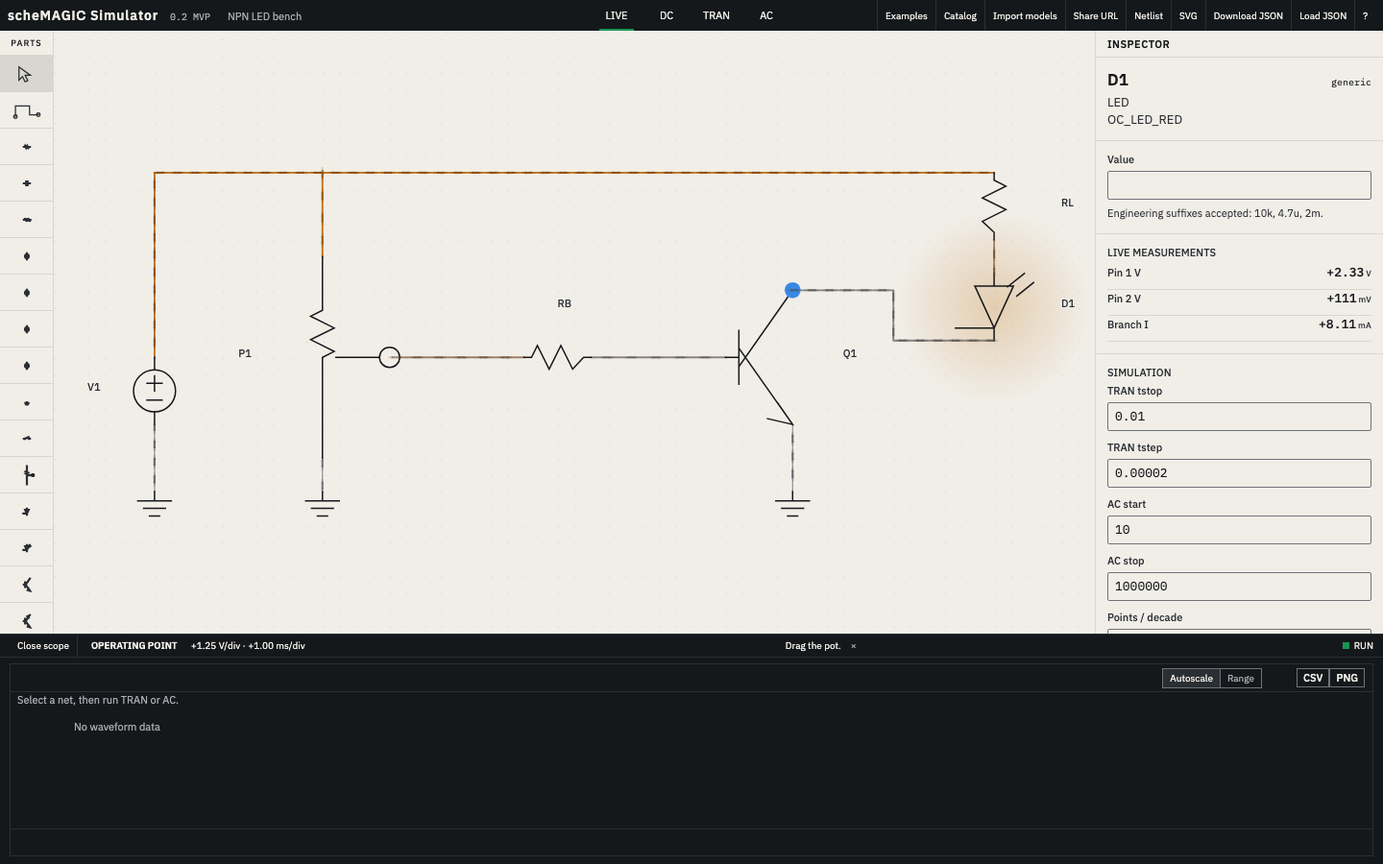
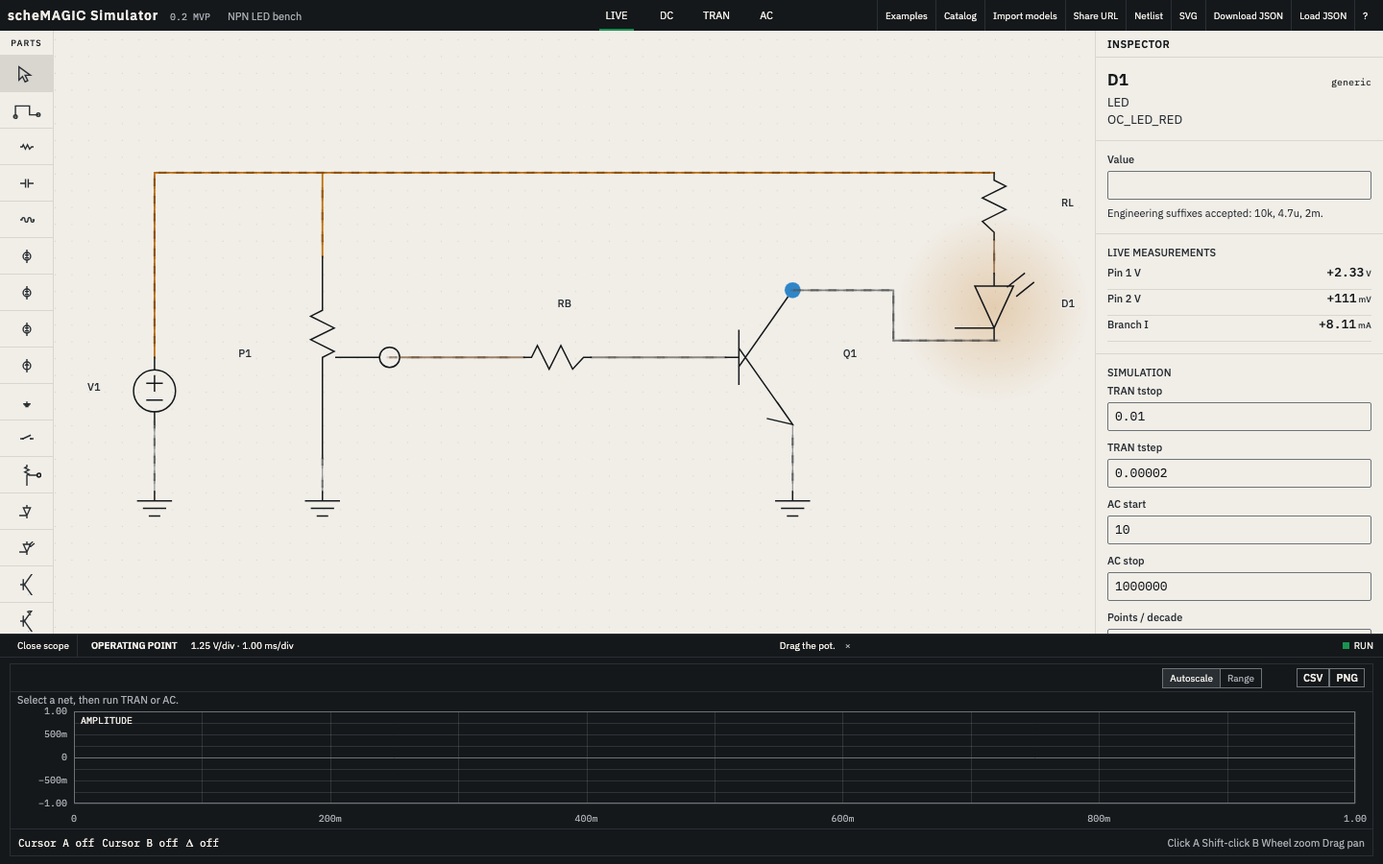
fix(web): polish parts rail and scope labels

diff --git a/apps/web/src/main.ts b/apps/web/src/main.ts
@@ -20,6 +20,7 @@ const esc=(value:string)=>value.replace(/[&<>"']/g,char=>({"&":"&amp;","<":"&lt;
 const modeLabels:Record<AnalysisMode,string>={live:"LIVE",op:"DC",tran:"TRAN",ac:"AC"};
 const scalar=(result:SimulationResult|undefined,name:string,index=0)=>result?.data.get(name.toLowerCase())?.[index];
 const snapReference=(values:number[])=>{const maximum=Math.max(1e-12,...values.map(Math.abs)),exponent=Math.floor(Math.log10(maximum)),scaled=maximum/10**exponent;return(scaled<=1?1:scaled<=2?2:scaled<=5?5:10)*10**exponent;};
+const scaleLabel=(value:number,unit:string)=>{const reading=formatEngineering(Math.abs(value),unit);return`${reading.value.replace(/^\+/,"").trim()} ${reading.unit}/div`;};
 const download=(name:string,content:string,type:string)=>{const url=URL.createObjectURL(new Blob([content],{type})),anchor=document.createElement("a");anchor.href=url;anchor.download=name;anchor.click();URL.revokeObjectURL(url);};
 
 let loadDiagnostic:SimulationDiagnostic|undefined;let circuit:CircuitDocument;let workspace:Workspace|undefined;const linkedExample=exampleFromHash(location.hash);const openedFromShare=Boolean(location.hash);
@@ -70,7 +71,7 @@ function scheduleSimulation(){clearTimeout(timer);timer=setTimeout(()=>void simu
 async function loadExample(id:string){const example=EXAMPLES.find(item=>item.id===id);if(!example)return;scopePlot.clearLocus();circuit=structuredClone(example.document);workspace=makeWorkspace(circuit,example.title);selectedId=circuit.components[0]?.id;editor.setDocument(circuit);requestAnimationFrame(()=>editor.fit());renderImportedPalette();must<HTMLElement>("#workspace-button").textContent=workspace.name;document.querySelectorAll<HTMLButtonElement>("[data-mode]").forEach(button=>button.setAttribute("aria-selected",String(button.dataset.mode===circuit.sim.mode)));must<HTMLElement>("#scope-title").textContent=circuit.sim.mode==="tran"?"TRANSIENT":circuit.sim.mode==="ac"?"AC RESPONSE":"OPERATING POINT";history.replaceState(null,"",exampleHash(id));await saveWorkspace(workspace);renderInspector();scheduleSimulation();}
 function renderDiagnostics(){const stack=must<HTMLElement>("#toast-stack");stack.innerHTML=diagnostics.map((entry,index)=>`<button class="error-toast" data-error="${index}"><span class="fault-glyph"></span>${esc(entry.message)}</button>`).join("");stack.querySelectorAll<HTMLButtonElement>("[data-error]").forEach(button=>button.addEventListener("click",()=>{const entry=diagnostics[Number(button.dataset.error)];if(entry?.componentId){selectedId=entry.componentId;renderInspector();}}));}
 function applyWireVisuals(){if(!generated)return;for(const wire of latestWireFlows){const node=generated.wireNodes[wire.id]??"0";const chromaScale=hoveredNode&&hoveredNode!==node?.toString()?0.35:1;editor.setWireStyle(wire.id,{stroke:voltageColor(wire.voltage,latestVref,chromaScale),dash:wire.voltage<-.05?"8 4":"none",width:Math.abs(wire.voltage)<=.05?0.9:1.8});editor.setWireCurrent(wire.id,wire.current);}pulseRenderer.update(latestWireFlows,latestVref);}
-function updateVisuals(){if(!generated)return;const targets=new Map<string,number>();for(const node of new Set(Object.values(generated.wireNodes)))targets.set(node,node==="0"?0:scalar(visualResult,`v(${node})`)??0);const now=performance.now(),tau=liveGesture?40:120,alpha=1-Math.exp(-(now-lastVoltageUpdate)/tau);lastVoltageUpdate=now;for(const [node,target] of targets)smoothedVoltages.set(node,smoothedVoltages.has(node)?(smoothedVoltages.get(node)!+(target-smoothedVoltages.get(node)!)*alpha):target);latestVref=snapReference([...targets.values()]);latestWireFlows=circuit.wires.map(wire=>{const node=generated!.wireNodes[wire.id]??"0",voltage=smoothedVoltages.get(node)??targets.get(node)??0,endpoints=new Set(wire.points.map(point=>point.join(","))),attached=circuit.components.filter(component=>component.type!=="ground").filter(component=>componentPinPoints(component).some(point=>endpoints.has(point.join(",")))).sort((a,b)=>a.id.localeCompare(b.id)),owner=attached.find(component=>generated!.componentCurrents[component.id]);let current=owner?scalar(visualResult,currentVector(generated!.componentCurrents[owner.id]!))??0:0;const pin0=owner&&componentPinPoints(owner)[0];if(pin0&&endpoints.has(pin0.join(",")))current=-current;return{id:wire.id,voltage,current};});applyWireVisuals();for(const component of circuit.components.filter(c=>c.type==="led")){const current=Math.abs(componentCurrent(component)??0),visible=Math.max(0,Math.min(1,(current-200e-6)/(20e-3-200e-6)));editor.setLedBrightness(component.id,visible**.65);}const reference=formatEngineering(latestVref,"V"),half=formatEngineering(latestVref/2,"V"),referenceValue=reference.value.replace(/^[+− ]/,""),halfValue=half.value.replace(/^[+− ]/,"");must<HTMLElement>("#vref-negative").textContent=`−${referenceValue} ${reference.unit}`;must<HTMLElement>("#vref-negative-half").textContent=`−${halfValue} ${half.unit}`;must<HTMLElement>("#vref-positive-half").textContent=`+${halfValue} ${half.unit}`;must<HTMLElement>("#vref-positive").textContent=`+${referenceValue} ${reference.unit}`;must<HTMLElement>("#scope-vdiv").textContent=`${formatEngineering(latestVref/4,"V").value.trim()} ${formatEngineering(latestVref/4,"V").unit}/div`;const secondsPerDivision=(circuit.sim.tran?.tstop??.01)/10;must<HTMLElement>("#scope-sdiv").textContent=`${formatEngineering(secondsPerDivision,"s").value.trim()} ${formatEngineering(secondsPerDivision,"s").unit}/div`;scopePlot.setProbes(activeScopeProbes());scopePlot.setData(circuit.sim.mode,circuit.sim.mode==="tran"||circuit.sim.mode==="ac"?scopeResult:undefined);scopeEmpty.hidden=(scopeResult?.vectors.length??0)>0&&circuit.probes.length>0;if(liveGesture){const pot=circuit.components.find(component=>component.type==="potentiometer"),probe=activeScopeProbes()[0];if(pot&&probe){const value=probe.node==="0"?0:scalar(visualResult,`v(${probe.node})`);if(value!==undefined)scopePlot.addLocusPoint(Number(pot.params?.t??.5),value);}}renderProbeMarkers();if(liveGesture)patchReadings();else renderInspector();renderDiagnostics();}
+function updateVisuals(){if(!generated)return;const targets=new Map<string,number>();for(const node of new Set(Object.values(generated.wireNodes)))targets.set(node,node==="0"?0:scalar(visualResult,`v(${node})`)??0);const now=performance.now(),tau=liveGesture?40:120,alpha=1-Math.exp(-(now-lastVoltageUpdate)/tau);lastVoltageUpdate=now;for(const [node,target] of targets)smoothedVoltages.set(node,smoothedVoltages.has(node)?(smoothedVoltages.get(node)!+(target-smoothedVoltages.get(node)!)*alpha):target);latestVref=snapReference([...targets.values()]);latestWireFlows=circuit.wires.map(wire=>{const node=generated!.wireNodes[wire.id]??"0",voltage=smoothedVoltages.get(node)??targets.get(node)??0,endpoints=new Set(wire.points.map(point=>point.join(","))),attached=circuit.components.filter(component=>component.type!=="ground").filter(component=>componentPinPoints(component).some(point=>endpoints.has(point.join(",")))).sort((a,b)=>a.id.localeCompare(b.id)),owner=attached.find(component=>generated!.componentCurrents[component.id]);let current=owner?scalar(visualResult,currentVector(generated!.componentCurrents[owner.id]!))??0:0;const pin0=owner&&componentPinPoints(owner)[0];if(pin0&&endpoints.has(pin0.join(",")))current=-current;return{id:wire.id,voltage,current};});applyWireVisuals();for(const component of circuit.components.filter(c=>c.type==="led")){const current=Math.abs(componentCurrent(component)??0),visible=Math.max(0,Math.min(1,(current-200e-6)/(20e-3-200e-6)));editor.setLedBrightness(component.id,visible**.65);}const reference=formatEngineering(latestVref,"V"),half=formatEngineering(latestVref/2,"V"),referenceValue=reference.value.replace(/^[+− ]/,""),halfValue=half.value.replace(/^[+− ]/,"");must<HTMLElement>("#vref-negative").textContent=`−${referenceValue} ${reference.unit}`;must<HTMLElement>("#vref-negative-half").textContent=`−${halfValue} ${half.unit}`;must<HTMLElement>("#vref-positive-half").textContent=`+${halfValue} ${half.unit}`;must<HTMLElement>("#vref-positive").textContent=`+${referenceValue} ${reference.unit}`;must<HTMLElement>("#scope-vdiv").textContent=scaleLabel(latestVref/4,"V");const secondsPerDivision=(circuit.sim.tran?.tstop??.01)/10;must<HTMLElement>("#scope-sdiv").textContent=scaleLabel(secondsPerDivision,"s");scopePlot.setProbes(activeScopeProbes());scopePlot.setData(circuit.sim.mode,circuit.sim.mode==="tran"||circuit.sim.mode==="ac"?scopeResult:undefined);scopeEmpty.hidden=(scopeResult?.vectors.length??0)>0&&circuit.probes.length>0;if(liveGesture){const pot=circuit.components.find(component=>component.type==="potentiometer"),probe=activeScopeProbes()[0];if(pot&&probe){const value=probe.node==="0"?0:scalar(visualResult,`v(${probe.node})`);if(value!==undefined)scopePlot.addLocusPoint(Number(pot.params?.t??.5),value);}}renderProbeMarkers();if(liveGesture)patchReadings();else renderInspector();renderDiagnostics();}
 async function simulate(){const generation=++solve;setStatus("Running ngspice WebAssembly solve","busy");diagnostics=loadDiagnostic?[loadDiagnostic]:[];const validation=validateCircuit(circuit);if(validation.length){diagnostics.push(...validation.map(issue=>({stage:"parse" as const,message:issue.message,...(issue.componentId?{componentId:issue.componentId}:{})})));setStatus(validation[0]!.message,"error");renderDiagnostics();return;}try{generated=generateProjectNetlist(circuit,"op");const op=await client.runOpPoint(generated.netlist);if(generation!==solve)return;visualResult=op;window.__ocMetrics.rawfileBytes=op.rawfileBytes;window.__ocMetrics.warmOpMs.push(op.elapsedMs);if(circuit.sim.mode==="tran"||circuit.sim.mode==="ac"){generated=generateProjectNetlist(circuit,circuit.sim.mode);scopeResult=circuit.sim.mode==="tran"?await client.runTransient(generated.netlist):await client.runAC(generated.netlist);if(generation!==solve)return;window.__ocMetrics.rawfileBytes=Math.max(op.rawfileBytes,scopeResult.rawfileBytes);}else scopeResult=undefined;setStatus(`ENGINE READY · ${engineLabel} · ${op.elapsedMs.toFixed(1)} ms solve`,"ready");updateVisuals();}catch(error){if(generation!==solve)return;const failure=error instanceof SimulationFailure?error:undefined;diagnostics=failure?.detail.diagnostics.length?failure.detail.diagnostics.map(entry=>{if(entry.componentId||entry.netLine===undefined)return entry;const mapped=generated?.lineMap.find(line=>line.line===entry.netLine);return mapped?.componentId?{...entry,componentId:mapped.componentId}:entry;}):[{stage:"engine",message:error instanceof Error?error.message:String(error)}];const failedPot=liveGesture?circuit.components.find(component=>component.type==="potentiometer"):undefined;setStatus(failedPot?`no convergence at wiper ${Number(failedPot.params?.t??.5).toFixed(2)}`:(diagnostics[0]?.message??"Simulation failed"),"error");renderDiagnostics();}finally{}}
 function bind(){must<HTMLButtonElement>("#catalog-button").addEventListener("click",()=>catalogDialog.open());const examplesOverlay=must<HTMLElement>("#examples-overlay");must<HTMLButtonElement>("#examples-button").addEventListener("click",()=>examplesOverlay.hidden=false);examplesOverlay.querySelector("[data-close-examples]")?.addEventListener("click",()=>examplesOverlay.hidden=true);examplesOverlay.querySelectorAll<HTMLButtonElement>("[data-example]").forEach(button=>button.addEventListener("click",async()=>{examplesOverlay.hidden=true;await loadExample(button.dataset.example!);}));must<HTMLButtonElement>("#import-models").addEventListener("click",()=>modelImportDialog.open());const about=must<HTMLElement>("#about-overlay");must<HTMLButtonElement>("#about-licences").addEventListener("click",()=>about.hidden=false);about.querySelector("[data-close-about]")?.addEventListener("click",()=>about.hidden=true);renderImportedPalette();const guidance=must<HTMLElement>("#guidance");guidance.hidden=localStorage.getItem("schemagic.guidance-dismissed")==="1";must<HTMLButtonElement>("#guidance-dismiss").addEventListener("click",()=>{localStorage.setItem("schemagic.guidance-dismissed","1");guidance.hidden=true;});document.querySelectorAll<HTMLButtonElement>("[data-tool]").forEach(button=>button.addEventListener("click",()=>{pendingCatalogPart=undefined;pendingImportedPart=undefined;editor.setTool(button.dataset.tool as Parameters<typeof editor.setTool>[0]);document.querySelectorAll("[data-tool]").forEach(item=>item.classList.toggle("active",item===button));}));document.querySelectorAll<HTMLButtonElement>("[data-mode]").forEach(button=>button.addEventListener("click",()=>{const mode=button.dataset.mode as AnalysisMode;scopePlot.clearLocus();editor.edit(doc=>{doc.sim.mode=mode});document.querySelectorAll<HTMLButtonElement>("[data-mode]").forEach(item=>item.setAttribute("aria-selected",String(item===button)));must<HTMLElement>("#scope-title").textContent=mode==="tran"?"TRANSIENT":mode==="ac"?"AC RESPONSE":"OPERATING POINT";}));must<HTMLButtonElement>("#scope-toggle").addEventListener("click",()=>{shell.classList.toggle("scope-collapsed");must<HTMLButtonElement>("#scope-toggle").textContent=shell.classList.contains("scope-collapsed")?"Open scope":"Close scope";});must<HTMLButtonElement>("#copy-link").addEventListener("click",async()=>{if(importedParts(circuit).length){setStatus("Imported model source stays browser-local. Use Download JSON to export the project.","error");return;}const url=shareUrl(circuit);if(url.length>8000)setStatus("Share URL is long. Download JSON is recommended.","error");try{await navigator.clipboard.writeText(url);setStatus("Share URL copied","ready");}catch{history.replaceState(null,"",url);setStatus("Share URL placed in the address bar","ready");}});must<HTMLButtonElement>("#export-spice").addEventListener("click",()=>{try{download(`${workspace!.name}.cir`,generateProjectNetlist(circuit,circuit.sim.mode==="live"?"op":circuit.sim.mode).netlist,"text/plain");}catch(error){setStatus(error instanceof Error?error.message:String(error),"error");}});must<HTMLButtonElement>("#export-svg").addEventListener("click",()=>download(`${workspace!.name}.svg`,editor.exportSvg(),"image/svg+xml"));must<HTMLButtonElement>("#export-json").addEventListener("click",()=>download(`${workspace!.name}.json`,canonicalizeCircuit(circuit),"application/json"));must<HTMLButtonElement>("#import-json").addEventListener("click",()=>must<HTMLInputElement>("#json-file").click());must<HTMLInputElement>("#json-file").addEventListener("change",async event=>{const file=(event.target as HTMLInputElement).files?.[0];if(!file)return;try{const loaded=migrateCircuit(JSON.parse(await file.text()));scopePlot.clearLocus();workspace=makeWorkspace(loaded);circuit=loaded;editor.setDocument(loaded);requestAnimationFrame(()=>editor.fit());renderImportedPalette();await saveWorkspace(workspace);scheduleSimulation();}catch(error){diagnostics=[{stage:"parse",message:error instanceof Error?error.message:String(error)}];renderDiagnostics();}});const shortcut=must<HTMLElement>("#shortcut-overlay");must<HTMLButtonElement>("#help-button").addEventListener("click",()=>shortcut.hidden=false);shortcut.querySelector("[data-close-overlay]")?.addEventListener("click",()=>shortcut.hidden=true);window.addEventListener("keydown",event=>{if(event.key==="?"&&!(event.target instanceof HTMLInputElement)){shortcut.hidden=false;}if(event.key==="Escape")shortcut.hidden=true;});bindWorkspaces();}
 function bindWorkspaces(){const overlay=must<HTMLElement>("#workspace-overlay"),button=must<HTMLButtonElement>("#workspace-button");button.addEventListener("click",()=>{overlay.hidden=false;void renderWorkspaceList();});overlay.querySelector("[data-close-workspaces]")?.addEventListener("click",()=>overlay.hidden=true);must<HTMLButtonElement>("#new-workspace").addEventListener("click",async()=>{scopePlot.clearLocus();workspace=makeWorkspace(structuredClone(demoCircuit),"Untitled circuit");workspace.document.meta.title=workspace.name;editor.setDocument(workspace.document);requestAnimationFrame(()=>editor.fit());renderImportedPalette();circuit=workspace.document;await saveWorkspace(workspace);button.textContent=workspace.name;overlay.hidden=true;scheduleSimulation();});must<HTMLButtonElement>("#rename-workspace").addEventListener("click",async()=>{const name=prompt("Workspace name",workspace!.name)?.trim();if(!name)return;workspace!.name=name;editor.edit(doc=>doc.meta.title=name);workspace!.updatedAt=Date.now();await saveWorkspace(workspace!);button.textContent=name;void renderWorkspaceList();});must<HTMLButtonElement>("#duplicate-workspace").addEventListener("click",async()=>{scopePlot.clearLocus();workspace=makeWorkspace(circuit,`${workspace!.name} copy`);workspace.document.meta.title=workspace.name;editor.setDocument(workspace.document);requestAnimationFrame(()=>editor.fit());renderImportedPalette();circuit=workspace.document;await saveWorkspace(workspace);button.textContent=workspace.name;void renderWorkspaceList();});must<HTMLButtonElement>("#delete-workspace").addEventListener("click",async()=>{await deleteWorkspace(workspace!.id);scopePlot.clearLocus();workspace=makeWorkspace(structuredClone(demoCircuit));circuit=workspace.document;editor.setDocument(circuit);requestAnimationFrame(()=>editor.fit());renderImportedPalette();await saveWorkspace(workspace);button.textContent=workspace.name;overlay.hidden=true;scheduleSimulation();});}

diff --git a/apps/web/src/style.css b/apps/web/src/style.css
@@ -8,7 +8,7 @@
 :root{--vellum:#F1EEE8;--graphite-900:#15181B;--graphite-700:#2A2F34;--graphite-500:#6E7378;--graphite-300:#A9AEB3;--graphite-100:#D9D6CF;--probe-blue:#2E86C8;--rail-amber:#BE7318;--phosphor:#1B9350;--fault:#C44A32;color:var(--graphite-900);background:var(--vellum);font-family:"IBM Plex Sans",sans-serif;font-size:13px;font-feature-settings:"tnum" 1,"zero" 1}
 *{box-sizing:border-box}html,body,#app{height:100%;margin:0;overflow:hidden}button,input,textarea,select{font:inherit;color:inherit}button{border:0;border-radius:0;background:transparent;cursor:pointer}button:focus-visible,input:focus-visible,textarea:focus-visible,select:focus-visible,.schematic-editor:focus-visible{outline:2px solid var(--graphite-900);outline-offset:-2px}
 .app-shell{height:100%;display:grid;grid-template-rows:32px minmax(0,1fr) min(240px,32vh);background:var(--vellum)}.app-shell.scope-collapsed{grid-template-rows:32px minmax(0,1fr) 24px}.chrome{display:grid;grid-template-columns:minmax(330px,1fr) auto minmax(390px,1fr);align-items:center;height:32px;padding:0 8px;background:var(--graphite-900);color:var(--vellum)}.brand-line{display:flex;align-items:baseline;gap:12px;min-width:0}.wordmark{font-family:"Archivo Expanded","IBM Plex Sans",sans-serif;font-weight:600;font-size:14px;letter-spacing:.06em;white-space:nowrap}.version{font-family:"IBM Plex Mono",monospace;font-size:10px;color:var(--graphite-300)}.document-name{overflow:hidden;text-overflow:ellipsis;white-space:nowrap;color:var(--graphite-300);font-size:11px;text-align:left}.analysis-tabs{height:100%;display:flex}.analysis-tab{position:relative;min-width:52px;padding:0 11px;color:var(--vellum);font-size:11px}.analysis-tab[aria-selected="true"]::after{content:"";position:absolute;left:8px;right:8px;bottom:0;height:2px;background:var(--phosphor)}.chrome-actions{display:flex;justify-content:flex-end;height:100%}.chrome-action{padding:0 8px;color:var(--vellum);font-size:10px;border-left:1px solid var(--graphite-700)}
-.workbench{min-height:0;display:grid;grid-template-columns:56px minmax(0,1fr) 300px}.symbol-rail{position:relative;z-index:4;border-right:1px solid var(--graphite-100);display:flex;flex-direction:column;overflow-y:auto;overflow-x:visible;background:var(--vellum)}.rail-title{height:26px;min-height:26px;display:grid;place-items:center;font-size:9px;font-weight:500;letter-spacing:.12em;border-bottom:1px solid var(--graphite-100)}.symbol-tool{position:relative;height:38px;min-height:38px;border-bottom:1px solid var(--graphite-100);display:grid;place-items:center}.symbol-tool.active{background:var(--graphite-100)}.symbol-tool svg{width:30px;height:22px;stroke:var(--graphite-700);fill:none;stroke-width:1.4;stroke-linecap:square;stroke-linejoin:miter}.tool-glyph,.part-abbr{font-family:"IBM Plex Mono",monospace;font-size:11px;font-weight:600}.symbol-tool:hover .rail-flyout{display:block}.rail-flyout{display:none;position:fixed;z-index:30;left:55px;width:240px;padding:10px;background:var(--vellum);border:1px solid var(--graphite-700);font-size:11px;pointer-events:none}.rail-flyout strong{display:block;margin-bottom:4px}.imported-rail-heading{height:24px;display:grid;place-items:center;border-bottom:1px solid var(--graphite-100);font-size:8px;letter-spacing:.08em}.unverified-tag{display:inline-block;padding:1px 4px;border:1px solid var(--rail-amber);color:var(--graphite-700);font-family:"IBM Plex Mono",monospace;font-size:9px}.rail-footer{margin-top:auto;min-height:28px;display:grid;place-items:center;border-top:1px solid var(--graphite-100);font-family:"IBM Plex Mono",monospace}
+.workbench{min-height:0;display:grid;grid-template-columns:56px minmax(0,1fr) 300px}.symbol-rail{position:relative;z-index:4;border-right:1px solid var(--graphite-100);display:flex;flex-direction:column;overflow-y:auto;overflow-x:visible;background:var(--vellum)}.rail-title{height:26px;min-height:26px;display:grid;place-items:center;font-size:9px;font-weight:500;letter-spacing:.12em;border-bottom:1px solid var(--graphite-100)}.symbol-tool{position:relative;height:38px;min-height:38px;border-bottom:1px solid var(--graphite-100);display:grid;place-items:center}.symbol-tool.active{background:var(--graphite-100)}.symbol-tool svg{width:30px;height:22px;stroke:var(--graphite-700);fill:none;stroke-width:1.4;stroke-linecap:square;stroke-linejoin:miter}.symbol-tool svg *{vector-effect:non-scaling-stroke}.tool-glyph,.part-abbr{font-family:"IBM Plex Mono",monospace;font-size:11px;font-weight:600}.symbol-tool:hover .rail-flyout{display:block}.rail-flyout{display:none;position:fixed;z-index:30;left:55px;width:240px;padding:10px;background:var(--vellum);border:1px solid var(--graphite-700);font-size:11px;pointer-events:none}.rail-flyout strong{display:block;margin-bottom:4px}.imported-rail-heading{height:24px;display:grid;place-items:center;border-bottom:1px solid var(--graphite-100);font-size:8px;letter-spacing:.08em}.unverified-tag{display:inline-block;padding:1px 4px;border:1px solid var(--rail-amber);color:var(--graphite-700);font-family:"IBM Plex Mono",monospace;font-size:9px}.rail-footer{margin-top:auto;min-height:28px;display:grid;place-items:center;border-top:1px solid var(--graphite-100);font-family:"IBM Plex Mono",monospace}
 .canvas-wrap,.editor-host{position:relative;min-width:0;min-height:0;overflow:hidden;background:var(--vellum)}.editor-host{width:100%;height:100%}.schematic-editor{position:relative;z-index:1;display:block;width:100%;height:100%;touch-action:none}.pulse-layer{position:absolute;z-index:2;inset:0;width:100%;height:100%;pointer-events:none}.editor-bg{fill:var(--vellum)}.grid-dot{fill:var(--graphite-500);opacity:.22}.editor-symbol,.editor-symbol *{fill:none;stroke:var(--graphite-900);stroke-width:1.5;stroke-linecap:square;stroke-linejoin:miter;vector-effect:non-scaling-stroke}.editor-label{fill:var(--graphite-700);stroke:var(--vellum);paint-order:stroke fill;font-family:"IBM Plex Sans",sans-serif;font-weight:500;pointer-events:none}.editor-world>rect{pointer-events:none}.editor-component{cursor:move}.editor-component-hit{fill:transparent;stroke:none}.editor-selection{display:none;fill:none;stroke:var(--graphite-900);stroke-width:.15;vector-effect:non-scaling-stroke}.editor-component.selected .editor-selection{display:block}.editor-component:hover .editor-symbol,.editor-component:hover .editor-symbol *{stroke:var(--graphite-700)}.editor-wire{fill:none;stroke:var(--graphite-500);stroke-width:1.8;stroke-linecap:square;stroke-linejoin:miter;vector-effect:non-scaling-stroke}.editor-wire-group.selected .editor-wire{stroke-width:2.8!important}.editor-hit{fill:none;stroke:transparent;stroke-width:1.6;cursor:crosshair}.static-chevron{fill:none;stroke:var(--graphite-900);stroke-width:1;stroke-linecap:square;stroke-linejoin:miter;vector-effect:non-scaling-stroke;pointer-events:none}.pot-wiper{stroke-width:1.5}.pot-knob{fill:var(--vellum);stroke:var(--graphite-900);stroke-width:1.5;rx:2px;ry:2px}.pot-hit{fill:none;stroke:transparent!important;stroke-width:12!important;cursor:ns-resize;vector-effect:non-scaling-stroke}.connection-node{fill:var(--graphite-700);stroke:var(--graphite-700);stroke-width:1;vector-effect:non-scaling-stroke;pointer-events:none}.wire-preview{fill:none;stroke:var(--graphite-900);stroke-width:.22;stroke-dasharray:.7 .35;vector-effect:non-scaling-stroke}.selection-box{fill:none;stroke:var(--graphite-900);stroke-width:.14;stroke-dasharray:.5 .3;vector-effect:non-scaling-stroke}.editor-led-halo{pointer-events:none}
 .canvas-status{position:absolute;left:12px;bottom:10px;display:flex;align-items:center;gap:8px;padding:3px 6px;background:var(--vellum);border:1px solid var(--graphite-100);font-size:11px}.run-indicator{width:7px;height:7px;background:var(--phosphor)}.run-indicator.busy{background:var(--rail-amber)}.run-indicator.error{background:var(--fault)}.vref-legend{position:absolute;left:50%;bottom:8px;transform:translateX(-50%);width:250px;color:var(--graphite-700);font:9px "IBM Plex Mono",monospace;pointer-events:none}.voltage-ramp{height:7px;border:1px solid var(--graphite-700);background:linear-gradient(in oklch to right,oklch(.62 .152 245) 0%,oklch(.62 .0639 245) 25%,#6E7378 50%,oklch(.62 .0589 62) 75%,oklch(.62 .140 62) 100%)}.vref-stops{display:grid;grid-template-columns:repeat(5,1fr);margin-top:3px;white-space:nowrap}.vref-stops span{text-align:center}.vref-stops span:first-child{text-align:left}.vref-stops span:last-child{text-align:right}.toast-stack{position:absolute;right:12px;top:12px;display:grid;gap:5px;max-width:360px}.error-toast{display:grid;grid-template-columns:12px 1fr;gap:7px;text-align:left;padding:7px;background:var(--vellum);border:1px solid var(--fault);font-size:11px}.fault-glyph{width:0;height:0;border-left:5px solid transparent;border-right:5px solid transparent;border-bottom:9px solid var(--fault);margin-top:2px}
 .inspector{min-height:0;overflow:auto;border-left:1px solid var(--graphite-100);background:var(--vellum)}.inspector-head{height:28px;display:flex;align-items:center;padding:0 12px;border-bottom:1px solid var(--graphite-100);font-size:11px;font-weight:600;letter-spacing:.04em}.inspector-section{padding:12px;border-bottom:1px solid var(--graphite-100)}.part-heading{display:flex;justify-content:space-between;align-items:baseline;margin-bottom:4px}.part-ref{font-size:17px;font-weight:600}.fidelity{font-family:"IBM Plex Mono",monospace;font-weight:600;border:1px solid var(--graphite-500);padding:1px 4px}.generic-tag{font-family:"IBM Plex Mono",monospace;font-size:10px}.part-name,.honesty-note{color:var(--graphite-700);line-height:1.4}.honesty-note{margin:7px 0 0;font-size:11px}.field-label,.measure-label{display:block;margin-bottom:5px;color:var(--graphite-700);font-size:11px;font-weight:500}.sim-label,.wiper-label{margin-top:10px}.value-input{width:100%;height:30px;border:1px solid var(--graphite-500);border-radius:2px;background:var(--vellum);padding:4px 7px;font-family:"IBM Plex Mono",monospace}.value-input[type="range"]{height:24px;padding:0;accent-color:var(--graphite-900)}#wiper-percent{display:block;margin-top:3px;font-family:"IBM Plex Mono",monospace}.switch-row{display:flex;gap:7px;margin-top:10px}.measure-row{display:grid;grid-template-columns:1fr auto;align-items:baseline;min-height:27px;border-bottom:1px solid var(--graphite-100)}.reading{display:inline-grid;grid-template-columns:minmax(5.4ch,auto) auto;align-items:baseline;column-gap:.15em;font-family:"IBM Plex Mono",monospace;font-weight:500}.reading-value{text-align:right}.reading-unit{font-family:"IBM Plex Sans",sans-serif;font-size:.68em;letter-spacing:.02em;color:var(--graphite-700)}.wiper-inline{display:flex;align-items:baseline;gap:.35em;margin-top:6px;font-family:"IBM Plex Mono",monospace;font-size:11px}.about-line{padding:12px;color:var(--graphite-700);font-size:10px}.about-line button{text-decoration:underline;text-underline-offset:2px}.scope-probe-marker{fill:var(--probe-color);stroke:var(--vellum);stroke-width:.22;vector-effect:non-scaling-stroke;pointer-events:none}

diff --git a/apps/web/e2e/editor.spec.ts b/apps/web/e2e/editor.spec.ts
@@ -4,8 +4,9 @@ import { resolve } from "node:path";
 const shots=resolve(import.meta.dirname,"../../../spikes/p2-screenshots");
 test.beforeAll(()=>mkdirSync(shots,{recursive:true}));
 test.beforeEach(async({page})=>{await page.goto("/");await page.evaluate(async()=>{localStorage.clear();sessionStorage.clear();await new Promise<void>(resolve=>{const request=indexedDB.deleteDatabase("schemagic-simulator");request.onsuccess=()=>resolve();request.onerror=()=>resolve();request.onblocked=()=>resolve();});});await page.reload();await expect(page.getByTestId("engine-ready")).toBeVisible({timeout:45_000});await page.waitForFunction(()=>[...document.querySelectorAll<SVGPathElement>("path.editor-wire")].some(wire=>getComputedStyle(wire).stroke!=="rgb(110, 115, 120)"));});
-test("editor MVP workflow",async({page,context,browserName},testInfo)=>{
-  await context.grantPermissions(["clipboard-read","clipboard-write"],{origin:"http://127.0.0.1:4173"}).catch(()=>undefined);
+test("editor MVP workflow",async({page,context,browserName},testInfo)=>{test.slow();
+  if(browserName==="chromium")await context.grantPermissions(["clipboard-read","clipboard-write"],{origin:"http://127.0.0.1:4173"});
+  else await page.evaluate(()=>{let value="";Object.defineProperty(navigator,"clipboard",{configurable:true,value:{writeText:async(text:string)=>{value=text;},readText:async()=>value}});});
   if(testInfo.project.name==="chromium")await page.screenshot({path:resolve(shots,"default-bench.png"),fullPage:true});
   await expect(page.locator(".generic-tag")).toHaveText("generic");
   await page.locator('[data-component-id="c4"] .editor-component-hit').click({force:true});await expect(page.locator(".inspector .fidelity")).toHaveText("F2");
@@ -17,8 +18,8 @@ test("editor MVP workflow",async({page,context,browserName},testInfo)=>{
   await page.locator('[data-tool="select"]').click();await page.locator(".schematic-editor").press(process.platform==="darwin"?"Meta+z":"Control+z");await expect(page.locator(".editor-wire-group")).toHaveCount(10);await page.locator(".schematic-editor").press(process.platform==="darwin"?"Meta+Shift+z":"Control+Shift+z");await expect(page.locator(".editor-wire-group")).toHaveCount(11);
   await page.mouse.move(box.x+375,box.y+220);await page.mouse.down();await page.mouse.move(box.x+425,box.y+260);await page.mouse.up();await expect(page.locator(".editor-component.selected")).toHaveCount(1);
   await page.locator(".schematic-editor").press(process.platform==="darwin"?"Meta+c":"Control+c");await page.locator(".schematic-editor").press(process.platform==="darwin"?"Meta+v":"Control+v");await expect(page.locator(".editor-component")).toHaveCount(11);
-  await page.getByRole("button",{name:"Share URL"}).click();const copied=await page.evaluate(()=>navigator.clipboard.readText()).catch(()=>location.href);expect(copied).toContain("#c=");const shared=await context.newPage();await shared.goto(copied);await expect(shared.getByText("scheMAGIC Simulator",{exact:true})).toBeVisible();await expect(shared.locator(".editor-component")).toHaveCount(11);await shared.close();
-  await page.waitForTimeout(500);await page.reload();await expect(page.getByText("scheMAGIC Simulator",{exact:true})).toBeVisible();await expect(page.locator(".editor-component")).toHaveCount(11);const savedValue=await page.evaluate(()=>new Promise<string|number|undefined>((resolve,reject)=>{const open=indexedDB.open("schemagic-simulator");open.onerror=()=>reject(open.error);open.onsuccess=()=>{const db=open.result,id=localStorage.getItem("schemagic.active-workspace");if(!id){resolve(undefined);return;}const request=db.transaction("workspaces").objectStore("workspaces").get(id);request.onerror=()=>reject(request.error);request.onsuccess=()=>resolve(request.result?.document?.components?.find((item:{value?:string|number})=>item.value==="4.7k")?.value);};}));expect(savedValue).toBe("4.7k");
+  await page.getByRole("button",{name:"Share URL"}).click();let copied=await page.evaluate(async()=>{try{return await Promise.race([navigator.clipboard.readText(),new Promise<string>(resolve=>setTimeout(()=>resolve(location.href),1_000))]);}catch{return location.href;}});if(!copied.includes("#c=")){await page.waitForFunction(()=>location.hash.startsWith("#c="));copied=page.url();}expect(copied).toContain("#c=");const shared=await context.newPage();await shared.goto(copied);await expect(shared.getByText("scheMAGIC Simulator",{exact:true})).toBeVisible();await expect(shared.locator(".editor-component")).toHaveCount(11);await shared.close();
+  await page.waitForTimeout(500);const restored=await context.newPage();await restored.goto("/",{waitUntil:"domcontentloaded"});await expect(restored.getByText("scheMAGIC Simulator",{exact:true})).toBeVisible();await expect(restored.locator(".editor-component")).toHaveCount(11);const savedValue=await restored.evaluate(()=>new Promise<string|number|undefined>((resolve,reject)=>{const open=indexedDB.open("schemagic-simulator");open.onerror=()=>reject(open.error);open.onsuccess=()=>{const db=open.result,id=localStorage.getItem("schemagic.active-workspace");if(!id){resolve(undefined);return;}const request=db.transaction("workspaces").objectStore("workspaces").get(id);request.onerror=()=>reject(request.error);request.onsuccess=()=>resolve(request.result?.document?.components?.find((item:{value?:string|number})=>item.value==="4.7k")?.value);};}));expect(savedValue).toBe("4.7k");await restored.close();
   expect(browserName).toMatch(/chromium|firefox|webkit/);
 });
 test("renders live voltage, current and continuous pot drag",async({page},testInfo)=>{test.skip(testInfo.project.name!=="chromium","Measured visual assertions run in Chromium");const stroke=await page.locator('path.editor-wire[data-wire-id="w1"]').evaluate(element=>getComputedStyle(element).stroke);expect(stroke).toContain("oklch");expect(stroke).toContain("0.14");expect(stroke).not.toBe("rgb(110, 115, 120)");const branch=page.getByTestId("branch-current");await expect(branch).not.toContainText("--");await expect(branch).not.toContainText("–");const currentText=(await branch.textContent())?.trim()??"";expect(currentText).toMatch(/[0-9]/);const points=await page.locator('[data-pot-hit="c2"]').evaluate(element=>{const matrix=(element as SVGGraphicsElement).getScreenCTM();if(!matrix)throw new Error("Pot transform missing");return[0,-2,-4].map(y=>{const point=new DOMPoint(4,y).matrixTransform(matrix);return{x:point.x,y:point.y};});});await page.mouse.move(points[0]!.x,points[0]!.y);await page.mouse.down();const displayed:string[]=[];for(const point of points.slice(1)){await page.mouse.move(point.x,point.y,{steps:4});displayed.push((await page.locator("#wiper-percent").textContent())??"");}expect(new Set(displayed).size).toBeGreaterThan(1);expect(displayed.every(value=>value!=="50 %")).toBeTruthy();await page.waitForTimeout(120);const haloOpacity=await page.locator('[data-led-halo="c6"]').evaluate(element=>Number(getComputedStyle(element).opacity));expect(haloOpacity).toBeGreaterThan(0);await expect(page.getByRole("button",{name:"Close scope"})).toBeVisible();await expect(page.locator("#scope-host > svg.scope-locus, #scope-host .scope-locus-line")).toHaveCount(0);const annotation=page.locator(".oc-waveform-viewer__annotation");await expect(annotation).toHaveText("Pot sweep");await page.screenshot({path:resolve(shots,"pot-live-drag.png"),fullPage:true});await page.mouse.up();const keepLocus=page.getByRole("button",{name:"Keep locus"});await expect(keepLocus).toBeVisible();await keepLocus.click();await expect(keepLocus).toBeHidden();await expect(annotation).toHaveText("Pot sweep");await page.locator(".oc-waveform-viewer__canvas").click();await expect(page.locator(".oc-waveform-viewer__readout")).toContainText("A:Pot sweep");});

diff --git a/packages/schematic-editor/src/index.ts b/packages/schematic-editor/src/index.ts
@@ -77,7 +77,7 @@ function symbol(component: CircuitComponent): string {
 
 export function partSymbolMarkup(type: ComponentType): string {
   const component = { id: "x", type, pos: [0, 0], rot: 0, mirror: false } as CircuitComponent;
-  return `<svg viewBox="-5 -7 10 14" aria-hidden="true">${symbol(component)}</svg>`;
+  return `<svg viewBox="-2.5 -3.5 5 7" aria-hidden="true">${symbol(component)}</svg>`;
 }
 
 function transform(component: CircuitComponent): string {

diff --git a/apps/web/src/demo.ts b/apps/web/src/demo.ts
@@ -30,7 +30,7 @@ export const demoCircuit: CircuitDocument = {
     { id: "w9", points: [[58, 21], [52, 21], [52, 18], [46, 18]] },
   ],
   probes: [
-    { id: "p1", kind: "voltage", target: { componentPin: ["c4", 0] }, color: "#3987e5" },
+    { id: "p1", kind: "voltage", target: { componentPin: ["c4", 0] }, color: "#2E86C8" },
   ],
   sim: {
     mode: "live",

diff --git a/spikes/p2-screenshots/NOTES.md b/spikes/p2-screenshots/NOTES.md
@@ -41,3 +41,21 @@ Measured from the production Vite preview in headless Chromium:
 - Root `npm run build`: PASS
 - Production build emits `ngspice-BKHZAIfU.wasm` as a separate asset.
 - Vite still warns that Emscripten's `node:module` import is externalized for browser compatibility. Chromium execution is green despite the warning.
+
+## Final polish verification, 2026-08-07
+
+The default bench was recaptured at 1440 x 900 after the parts-rail fix. A separate full-rail inspection rendered all 17 IEC tool symbols in their 30 x 22 px boxes. Each mark computed to a 1.4 px non-scaling stroke and was visually recognizable at 1x.
+
+| Browser | Result | Evidence |
+| --- | --- | --- |
+| Chromium | PASS | 8 of 8 Playwright tests passed in 45.5 s. |
+| Firefox | PASS | 2 tests passed and 6 were skipped by design. |
+| WebKit | PASS | 2 tests passed and 6 were skipped by design. |
+
+The Firefox and WebKit skips are the four Chromium-only editor visual/screenshot tests plus the two P6 acceptance/screenshot tests. The cross-browser MVP workflow and reduced-motion static-encoding test passed in both browsers. Combined cross-browser command result: 4 passed, 12 skipped in 2.3 min.
+
+Final workspace checks:
+
+- Root `npm test`: PASS, 3 of 3 tests.
+- Root `npm run build`: PASS.
+- Scope scale labels render as unsigned magnitudes: `1.25 V/div` and `1.00 ms/div` on the default bench.
